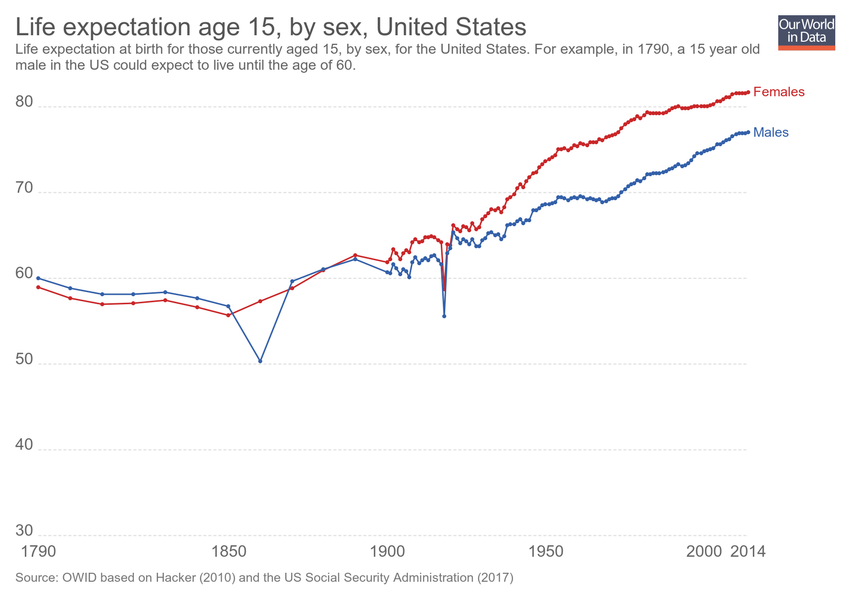
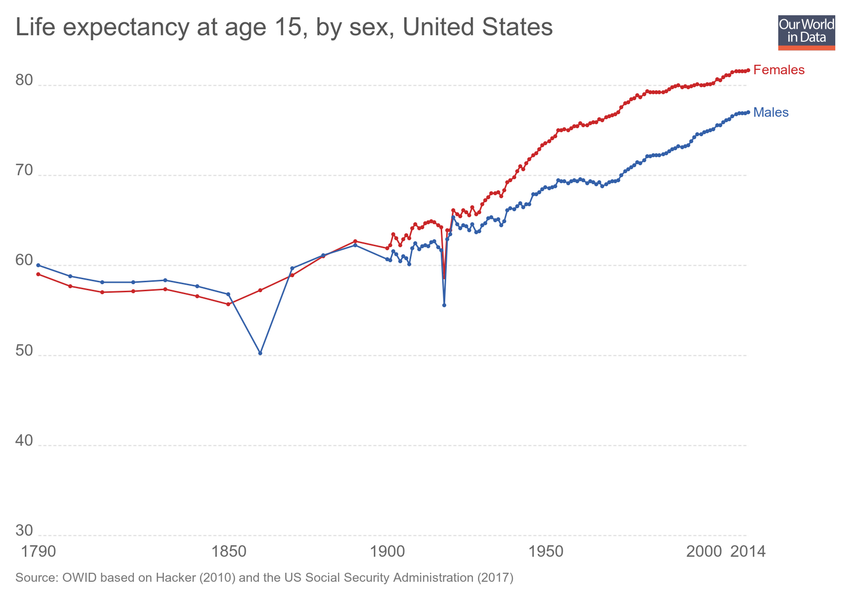
Updating chart life-expectation-age-15-by-sex

diff --git a/grapher/life-expectation-age-15-by-sex.html b/grapher/life-expectation-age-15-by-sex.html
@@ -1,4 +1,4 @@
-<!doctype html><html><head><meta name="viewport" content="width=device-width, initial-scale=1" /><title>Life expectation age 15, by sex - Our World in Data</title><meta name="description" content="Life expectation at birth for those currently aged 15, by sex, for the United States. For example, in 1790, a 15 year old male in the US could expect to live until the age of 60. " /><link rel="canonical" href="https://ourworldindata.org/grapher/life-expectation-age-15-by-sex" /><meta property="fb:app_id" content="1149943818390250" /><meta property="og:url" content="https://ourworldindata.org/grapher/life-expectation-age-15-by-sex" /><meta property="og:title" content="Life expectation age 15, by sex" /><meta property="og:description" content="Life expectation at birth for those currently aged 15, by sex, for the United States. For example, in 1790, a 15 year old male in the US could expect to live until the age of 60. " /><meta property="og:image" content="https://ourworldindata.org/grapher/exports/life-expectation-age-15-by-sex.png?v=1" /><meta property="og:image:width" content="850" /><meta property="og:image:height" content="600" /><meta property="og:site_name" content="Our World in Data" /><meta name="twitter:card" content="summary_large_image" /><meta name="twitter:site" content="@OurWorldInData" /><meta name="twitter:creator" content="@OurWorldInData" /><meta name="twitter:title" content="Life expectation age 15, by sex" /><meta name="twitter:description" content="Life expectation at birth for those currently aged 15, by sex, for the United States. For example, in 1790, a 15 year old male in the US could expect to live until the age of 60. " /><meta name="twitter:image" content="https://ourworldindata.org/grapher/exports/life-expectation-age-15-by-sex.png?v=1" /><style>
+<!doctype html><html><head><meta name="viewport" content="width=device-width, initial-scale=1" /><title>Life expectancy at age 15, by sex - Our World in Data</title><meta name="description" content="An interactive visualization from Our World in Data." /><link rel="canonical" href="https://ourworldindata.org/grapher/life-expectation-age-15-by-sex" /><meta property="fb:app_id" content="1149943818390250" /><meta property="og:url" content="https://ourworldindata.org/grapher/life-expectation-age-15-by-sex" /><meta property="og:title" content="Life expectancy at age 15, by sex" /><meta property="og:description" content="An interactive visualization from Our World in Data." /><meta property="og:image" content="https://ourworldindata.org/grapher/exports/life-expectation-age-15-by-sex.png?v=3" /><meta property="og:image:width" content="850" /><meta property="og:image:height" content="600" /><meta property="og:site_name" content="Our World in Data" /><meta name="twitter:card" content="summary_large_image" /><meta name="twitter:site" content="@OurWorldInData" /><meta name="twitter:creator" content="@OurWorldInData" /><meta name="twitter:title" content="Life expectancy at age 15, by sex" /><meta name="twitter:description" content="An interactive visualization from Our World in Data." /><meta name="twitter:image" content="https://ourworldindata.org/grapher/exports/life-expectation-age-15-by-sex.png?v=3" /><style>
         html, body {
             height: 100%;
             margin: 0;
@@ -20,8 +20,8 @@
         }
     </style><noscript><style>
                     figure { display: none !important; }
-                </style></noscript><link rel="stylesheet" href="https://ourworldindata.org/grapher/assets/commons.bundle.0cade97703a5a10acaac.css" /><link rel="preload" href="/grapher/data/variables/97737+97738.json?v=1" as="fetch" crossorigin /></head><body class="singleChart"><figure data-grapher-src="/grapher/life-expectation-age-15-by-sex"></figure><noscript id="fallback"><img src="/grapher/exports/life-expectation-age-15-by-sex.svg" /><p>Interactive visualization requires JavaScript</p></noscript><script src="https://cdn.polyfill.io/v2/polyfill.min.js?features=es6,fetch"></script><script src="https://ourworldindata.org/grapher/assets/commons.bundle.0cade97703a5a10acaac.js"></script><script src="https://ourworldindata.org/grapher/assets/charts.bundle.0cade97703a5a10acaac.js"></script><script>
-        var jsonConfig = {"map":{"projection":"World","colorSchemeLabels":[],"colorSchemeValues":[],"customNumericColors":[],"customCategoryColors":{},"customCategoryLabels":{},"customHiddenCategories":{}},"tab":"chart","slug":"life-expectation-age-15-by-sex","type":"LineChart","title":"Life expectation age 15, by sex","xAxis":{"scaleType":"linear"},"yAxis":{"min":30,"scaleType":"linear"},"version":1,"subtitle":"Life expectation at birth for those currently aged 15, by sex, for the United States. For example, in 1790, a 15 year old male in the US could expect to live until the age of 60. ","hasMapTab":false,"stackMode":"absolute","dimensions":[{"display":{"name":"Females","unit":"years"},"property":"y","variableId":97737},{"display":{"name":"Males","unit":"years"},"property":"y","variableId":97738}],"isAutoSlug":true,"hasChartTab":true,"isPublished":true,"selectedData":[{"index":0,"entityId":13},{"index":1,"entityId":13}],"addCountryMode":"change-country","id":2929};
+                </style></noscript><link rel="stylesheet" href="https://ourworldindata.org/grapher/assets/commons.bundle.0cade97703a5a10acaac.css" /><link rel="preload" href="/grapher/data/variables/97737+97738.json?v=3" as="fetch" crossorigin /></head><body class="singleChart"><figure data-grapher-src="/grapher/life-expectation-age-15-by-sex"></figure><noscript id="fallback"><img src="/grapher/exports/life-expectation-age-15-by-sex.svg" /><p>Interactive visualization requires JavaScript</p></noscript><script src="https://cdn.polyfill.io/v2/polyfill.min.js?features=es6,fetch"></script><script src="https://ourworldindata.org/grapher/assets/commons.bundle.0cade97703a5a10acaac.js"></script><script src="https://ourworldindata.org/grapher/assets/charts.bundle.0cade97703a5a10acaac.js"></script><script>
+        var jsonConfig = {"id":2929,"map":{"projection":"World","colorSchemeLabels":[],"colorSchemeValues":[],"customNumericColors":[],"customCategoryColors":{},"customCategoryLabels":{},"customHiddenCategories":{}},"tab":"chart","slug":"life-expectation-age-15-by-sex","type":"LineChart","title":"Life expectancy at age 15, by sex","xAxis":{"scaleType":"linear"},"yAxis":{"min":30,"scaleType":"linear"},"version":3,"hasMapTab":false,"stackMode":"absolute","dimensions":[{"display":{"name":"Females","unit":"years"},"property":"y","variableId":97737},{"display":{"name":"Males","unit":"years"},"property":"y","variableId":97738}],"hasChartTab":true,"isPublished":true,"selectedData":[{"index":0,"entityId":13},{"index":1,"entityId":13}],"addCountryMode":"change-country"};
         var figure = document.getElementsByTagName("figure")[0];
         try {
             window.App = {};
